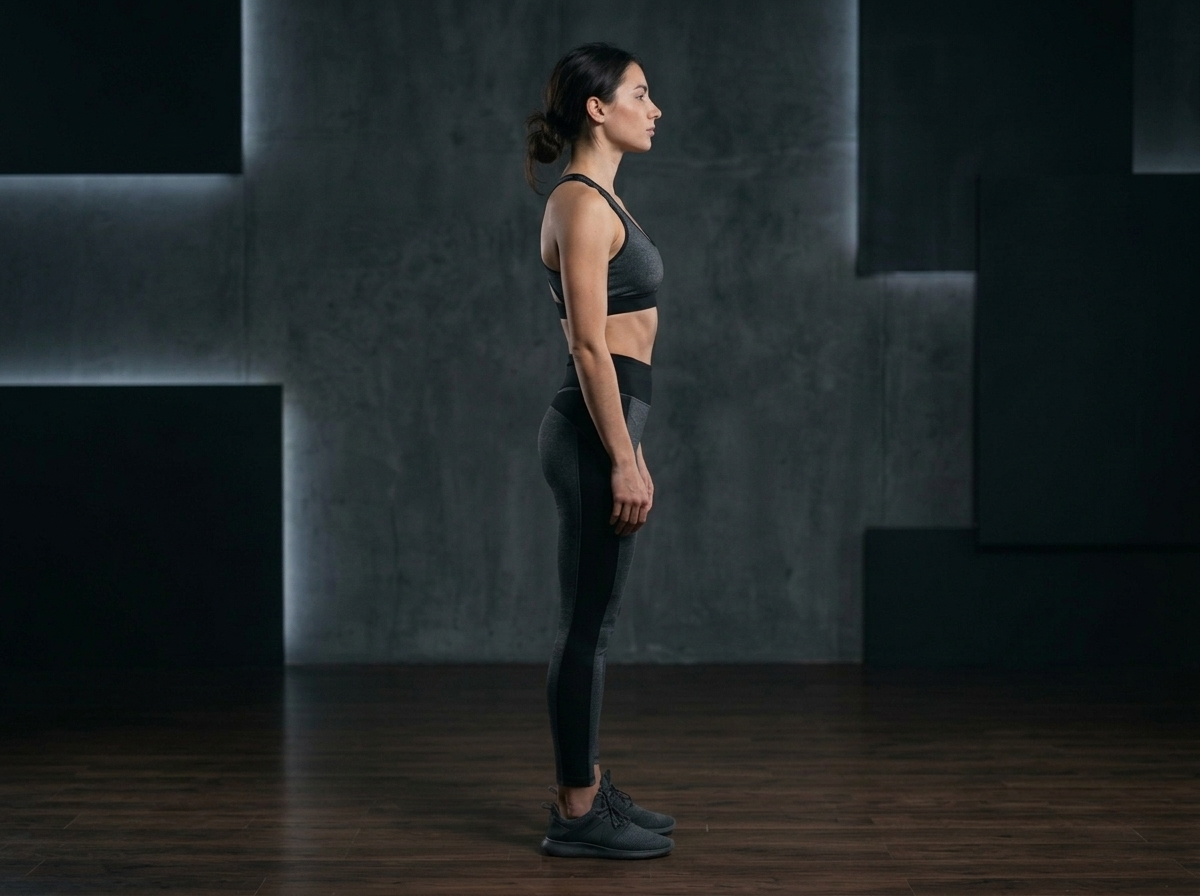
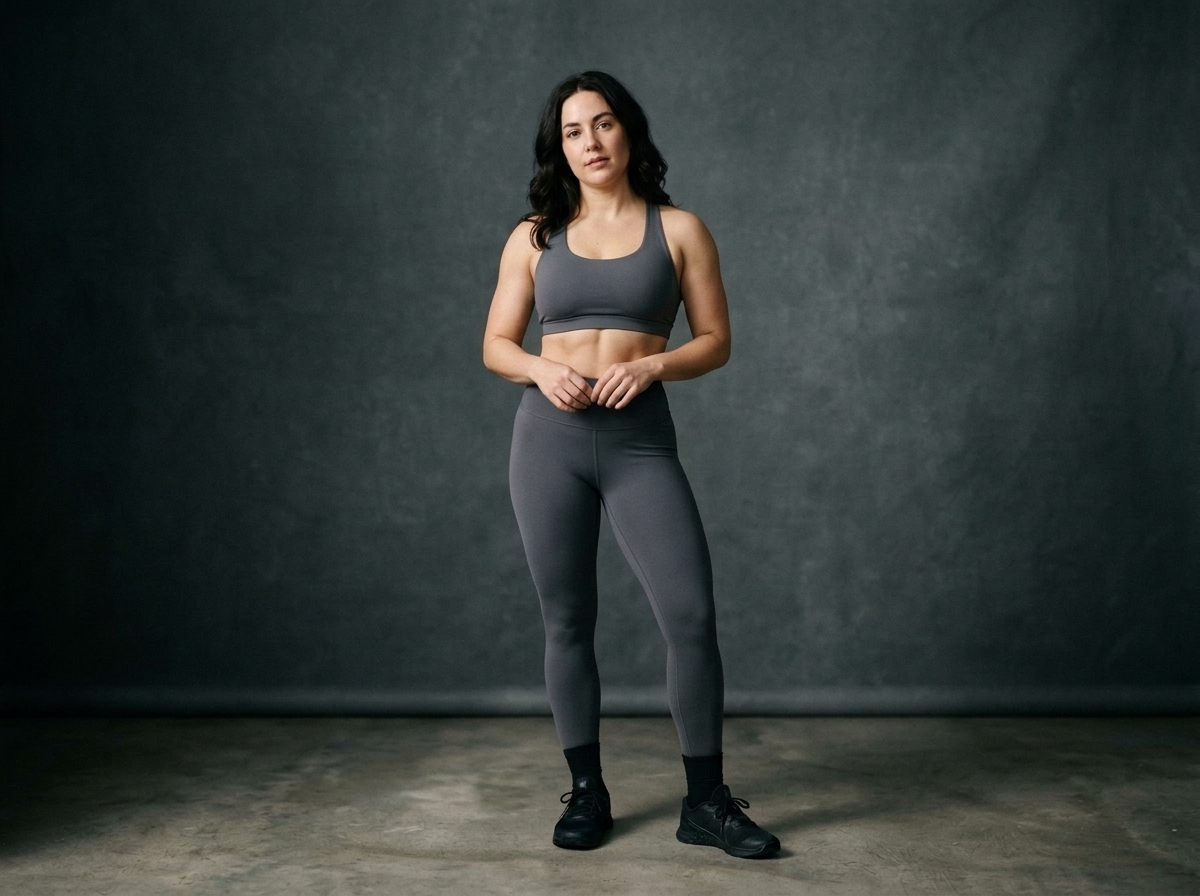
feat: updated BeforeAfterSlider to emphasize physical body transformation, weight loss, slimming & fit body toning with swapped image positions

diff --git a/src/components/BeforeAfterSlider/BeforeAfterSlider.tsx b/src/components/BeforeAfterSlider/BeforeAfterSlider.tsx
@@ -55,8 +55,8 @@ export default function BeforeAfterSlider({ embedded = false }: { embedded?: boo
           <h2 className="display-text">{language === 'tr' ? 'Gerçek Dönüşümler' : 'Real Transformations'}</h2>
           <p className="text-lg">
             {language === 'tr' 
-              ? "Düzenli klinik pilates ve reformer terapisi ile duruş bozukluklarının nasıl düzeltildiğine tanık olun."
-              : "Witness how posture issues are corrected with regular clinical pilates and reformer therapy."}
+              ? "Kişiye özel Reformer Pilates ve Fitness antrenmanları ile zayıflama, sıkılaşma ve fit bir vücut dönüşümüne tanık olun."
+              : "Witness the physical body transformation, weight loss, and athletic toning with personalized Reformer Pilates & Fitness."}
           </p>
         </div>
 
